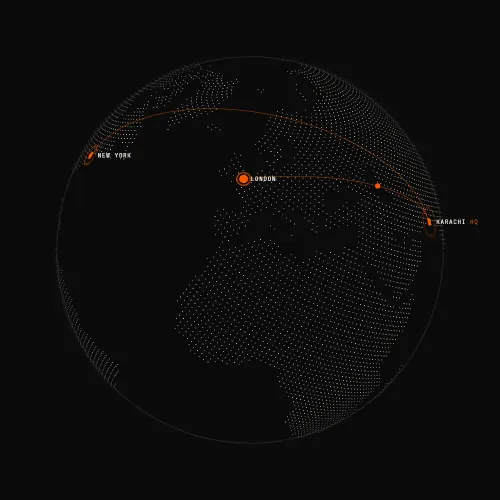
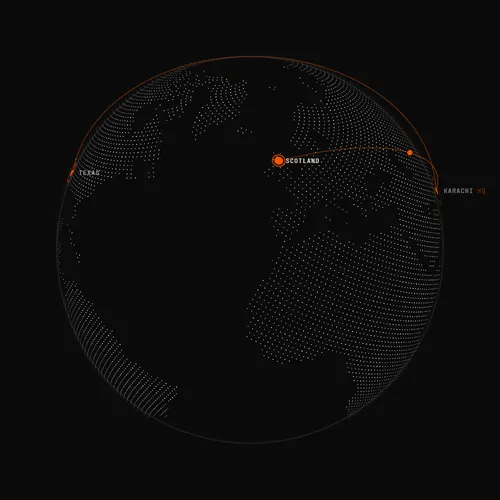
IT Hardware Sales details, offices in Scotland and Texas, project images
- IT Hardware Sales: client description, four deliverables, six vendors as
  tools, two images; explainer-film project now its related work and tagged
  IT Hardware Sales (last Motion/Design leftover)
- Offices: UK -> Scotland, USA -> Texas (Central time), region addresses;
  every mention updated (copy, FAQ, page descriptions, share images);
  globe recentred with a wider sway so Texas and Karachi come into view,
  static capture held at the centre so all three offices show
- Projects: client images for freight portal, restaurant identity, taxi app
  and explainer film; patient app renamed Taxi booking app ("designed with
  taxi drivers")
- Sample team role Motion Designer -> IT Hardware Specialist
- Client originals converted to WebP (full + 800px); originals moved to
  source-images/ (git-ignored, not deployed)

diff --git a/content/services.ts b/content/services.ts
@@ -108,7 +108,7 @@ export const services: Service[] = [
         height: 764,
       },
     ],
-    relatedProject: "patient-app",
+    relatedProject: "taxi-app",
   },
   // Client copy
   {
@@ -119,9 +119,25 @@ export const services: Service[] = [
       "We provide high-quality IT hardware from leading global brands, delivering reliable technology solutions for businesses of all sizes.",
     tags: ["Enterprise IT Hardware", "Genuine Technology Products", "Business IT Infrastructure"],
     description:
-      "We provide high-quality IT hardware from leading global brands, delivering reliable technology solutions for businesses of all sizes.",
-    deliverables: ["Enterprise IT hardware", "Genuine technology products", "Business IT infrastructure"],
-    // To add: brands / product categories carried (shown as "Tools & stack"), and a related project.
-    tools: [],
+      "We provide reliable IT hardware sales, delivering high-quality technology products and equipment to power businesses with performance, reliability, and efficiency.",
+    deliverables: ["Servers & Storage Solutions", "Networking Equipment", "Computers & Workstations", "IT Hardware & Accessories"],
+    tools: ["Dell Technologies", "HP Enterprise (HPE)", "Cisco Systems", "Lenovo", "Fortinet", "Microsoft Azure"],
+    images: [
+      {
+        src: "/images/services/it-hardware-1.webp",
+        srcSmall: "/images/services/it-hardware-1-800.webp",
+        alt: "Enterprise IT hardware: servers, networking equipment and workstations",
+        width: 1400,
+        height: 788,
+      },
+      {
+        src: "/images/services/it-hardware-2.webp",
+        srcSmall: "/images/services/it-hardware-2-800.webp",
+        alt: "IT hardware and accessories for business infrastructure",
+        width: 1024,
+        height: 1024,
+      },
+    ],
+    relatedProject: "explainer-film",
   },
 ];

diff --git a/content/about.ts b/content/about.ts
@@ -15,7 +15,7 @@ export const about = {
     // SAMPLE founding story (2 short paragraphs)
     story: [
       "Techventics started in Karachi as a small team of developers and designers who were tired of handing clients half-finished work. We wanted one studio where the people who plan a product are the same people who design it, build it and keep it running.",
-      "Today we work from Karachi, London and New York with companies in Pakistan, the UK and the US. The setup is simple: senior people on every project, a working link to click every week, and no hand-offs to strangers halfway through.",
+      "Today we work from Karachi, Scotland and Texas with companies in Pakistan, the UK and the US. The setup is simple: senior people on every project, a working link to click every week, and no hand-offs to strangers halfway through.",
     ],
   },
   // Client vision statement (lit word by word on scroll). *asterisks* = ember.
@@ -50,7 +50,7 @@ export const about = {
       { name: "Team member", role: "Design Lead", photo: null, placeholder: true },
       { name: "Team member", role: "Engineering Lead", photo: null, placeholder: true },
       { name: "Team member", role: "Brand Strategist", photo: null, placeholder: true },
-      { name: "Team member", role: "Motion Designer", photo: null, placeholder: true },
+      { name: "Team member", role: "IT Hardware Specialist", photo: null, placeholder: true },
       { name: "Team member", role: "Mobile Developer", photo: null, placeholder: true },
       { name: "Team member", role: "Project Manager", photo: null, placeholder: true },
       { name: "Team member", role: "UI/UX Designer", photo: null, placeholder: true },

diff --git a/content/projects.ts b/content/projects.ts
@@ -11,7 +11,7 @@ export const projects: Project[] = [
     year: "2025",
     services: ["development", "design"],
     summary: "A shipment tracking and billing portal that replaced three spreadsheets and a weekly phone call.",
-    image: null,
+    image: "/images/services/project-freight.webp",
     previewSrc: null,
     href: null,
   },
@@ -23,19 +23,19 @@ export const projects: Project[] = [
     year: "2025",
     services: ["brand-identity", "design"],
     summary: "Name, mark and menu system for a group opening its fourth location.",
-    image: null,
+    image: "/images/services/project-restaurant.webp",
     previewSrc: null,
     href: null,
   },
   {
-    id: "patient-app",
+    id: "taxi-app",
     placeholder: true,
-    title: "Patient booking app",
-    client: "Healthcare client",
+    title: "Taxi booking app",
+    client: "Transport client",
     year: "2024",
     services: ["development", "design"],
-    summary: "iOS and Android app for booking, reminders and follow-ups, designed with clinic staff.",
-    image: null,
+    summary: "iOS and Android app for booking, reminders and follow-ups, designed with taxi drivers.",
+    image: "/images/services/project-taxi.webp",
     previewSrc: null,
     href: null,
   },
@@ -45,9 +45,9 @@ export const projects: Project[] = [
     title: "Product explainer film",
     client: "Fintech client",
     year: "2024",
-    services: ["design"],
+    services: ["it-hardware"],
     summary: "A 90-second film that explains a payments product to small business owners.",
-    image: null,
+    image: "/images/services/project-explainer.webp",
     previewSrc: null,
     href: null,
   },

diff --git a/components/three/Globe.tsx b/components/three/Globe.tsx
@@ -84,7 +84,7 @@ type GlobeProps = {
   labelsRef?: RefObject<(HTMLElement | null)[]>;
 };
 
-export function Globe({ offices, hubId, quality, centerLng = -4, interactive = true, labelsRef }: GlobeProps) {
+export function Globe({ offices, hubId, quality, centerLng = -16, interactive = true, labelsRef }: GlobeProps) {
   const spin = useRef<THREE.Group>(null);
   const pulseRefs = useRef<(THREE.Mesh | null)[]>([]);
   const travelRefs = useRef<(THREE.Mesh | null)[]>([]);
@@ -159,8 +159,10 @@ export function Globe({ offices, hubId, quality, centerLng = -4, interactive = t
       pointer.current.y = THREE.MathUtils.damp(pointer.current.y, state.pointer.y, 3, delta);
     }
     // Gentle sway around the offices' longitudes rather than a full spin, so they stay in view.
-    g.rotation.y = -(centerLng + Math.sin(t * 0.12) * 12) * DEG + pointer.current.x * 0.25;
-    // ~35° tilt puts the view centre near 35°N, so NY, London and Karachi all face the viewer.
+    // Non-interactive (static capture) holds the centre, where all three offices face the viewer.
+    const sway = interactive ? Math.sin(t * 0.12) * 30 : 0;
+    g.rotation.y = -(centerLng + sway) * DEG + pointer.current.x * 0.25;
+    // ~35° tilt puts the view centre near 35°N; the wider sway brings Texas and Karachi into view in turn.
     g.rotation.x = 0.6 + pointer.current.y * -0.12;
 
     // Pin pulse rings

diff --git a/content/offices.ts b/content/offices.ts
@@ -16,19 +16,19 @@ export const offices: Office[] = [
     coordinates: { lat: 24.8762, lng: 67.0727 },
   },
   {
-    id: "london",
-    city: "London",
+    id: "scotland",
+    city: "Scotland",
     country: "United Kingdom",
     timeZone: "Europe/London",
-    address: null, // PLACEHOLDER: address to be supplied
-    coordinates: { lat: 51.5072, lng: -0.1276 },
+    address: ["Scotland, United Kingdom"], // full street address to be supplied
+    coordinates: { lat: 55.9, lng: -3.6 },
   },
   {
-    id: "new-york",
-    city: "New York",
+    id: "texas",
+    city: "Texas",
     country: "United States",
-    timeZone: "America/New_York",
-    address: null, // PLACEHOLDER: address to be supplied
-    coordinates: { lat: 40.7128, lng: -74.006 },
+    timeZone: "America/Chicago", // Central time (most of Texas)
+    address: ["Texas, United States"], // full street address to be supplied
+    coordinates: { lat: 31.0, lng: -99.3 },
   },
 ];

diff --git a/components/sections/home/Hero.tsx b/components/sections/home/Hero.tsx
@@ -78,7 +78,7 @@ export function Hero({ children }: { children: ReactNode }) {
 
       <section ref={hero} data-hero aria-label="Introduction" className="relative min-h-[max(100svh,900px)]">
         <h1 className="absolute inset-x-0 bottom-[12%] text-center">
-          <span className="sr-only">Techventics, a studio for web, mobile, brand and motion</span>
+          <span className="sr-only">Techventics: IT hardware, development, brand and design</span>
           <span
             aria-hidden
             className="inline-flex font-display text-[clamp(1.5rem,3.1vw,3.25rem)] font-medium uppercase leading-none tracking-[0.38em] [margin-right:-0.38em] [text-shadow:0_0_18px_rgba(11,11,11,0.95),0_0_4px_rgba(11,11,11,0.9)]"

diff --git a/components/sections/home/GlobalPresence.tsx b/components/sections/home/GlobalPresence.tsx
@@ -25,7 +25,7 @@ export function GlobalPresence() {
           </ul>
         </div>
 
-        {/* Dotted 3D globe: pins on each office, arcs from the HQ to London and New York */}
+        {/* Dotted 3D globe: pins on each office, arcs from the HQ to Scotland and Texas */}
         <div className="lg:col-span-6 lg:self-center">
           <GlobeStage offices={offices} hubId={offices.find((o) => o.isHeadquarters)?.id ?? offices[0].id} className="mx-auto w-full max-w-[34rem]" />
         </div>

diff --git a/app/services/page.tsx b/app/services/page.tsx
@@ -12,7 +12,7 @@ import { services } from "@/content/services";
 export const metadata: Metadata = {
   title: "Services",
   description:
-    "Development, brand identity, design, and motion and video: websites, apps, identity systems, UI/UX and explainer films from Techventics.",
+    "Development, brand identity, design and IT hardware sales: websites, apps, identity systems, UI/UX, servers, networking and workstations from Techventics.",
   alternates: { canonical: "/services" },
 };
 

diff --git a/content/home.ts b/content/home.ts
@@ -37,7 +37,7 @@ export const home = {
     eyebrow: "Global presence",
     big: "Global",
     title: "Three offices, one schedule.",
-    body: "Karachi, London and New York cover most of the working day between them, so someone on the team is usually awake when you need an answer.",
+    body: "Karachi, Scotland and Texas cover most of the working day between them, so someone on the team is usually awake when you need an answer.",
   },
   closing: {
     eyebrow: "Start a project",

diff --git a/lib/og.tsx b/lib/og.tsx
@@ -56,7 +56,7 @@ export async function renderOg({ eyebrow, title }: { eyebrow: string; title: str
             {title}
           </div>
           <div style={{ display: "flex", justifyContent: "space-between", marginTop: 44, fontFamily: "Mono", fontSize: 20, letterSpacing: 2, color: "#8A8580" }}>
-            <span>KARACHI · LONDON · NEW YORK</span>
+            <span>KARACHI · SCOTLAND · TEXAS</span>
             <span>TECHVENTICS.COM</span>
           </div>
         </div>

diff --git a/content/faqs.ts b/content/faqs.ts
@@ -16,7 +16,7 @@ export const faqs: Faq[] = [
   {
     question: "Do you work with clients outside Pakistan?",
     answer:
-      "Yes. We work with companies in the UK, the US and Pakistan, with teams in London and New York for meetings in your time zone.",
+      "Yes. We work with companies in the UK, the US and Pakistan, with teams in Scotland and Texas for meetings in your time zone.",
   },
   {
     question: "Who owns the designs and the code?",

diff --git a/app/about/page.tsx b/app/about/page.tsx
@@ -10,7 +10,7 @@ import { about } from "@/content/about";
 
 export const metadata: Metadata = {
   title: "About",
-  description: "Who Techventics is, what we believe and where we work: a design and development studio in Karachi, London and New York.",
+  description: "Who Techventics is, what we believe and where we work: a design and development studio in Karachi, Scotland and Texas.",
   alternates: { canonical: "/about" },
 };
 
